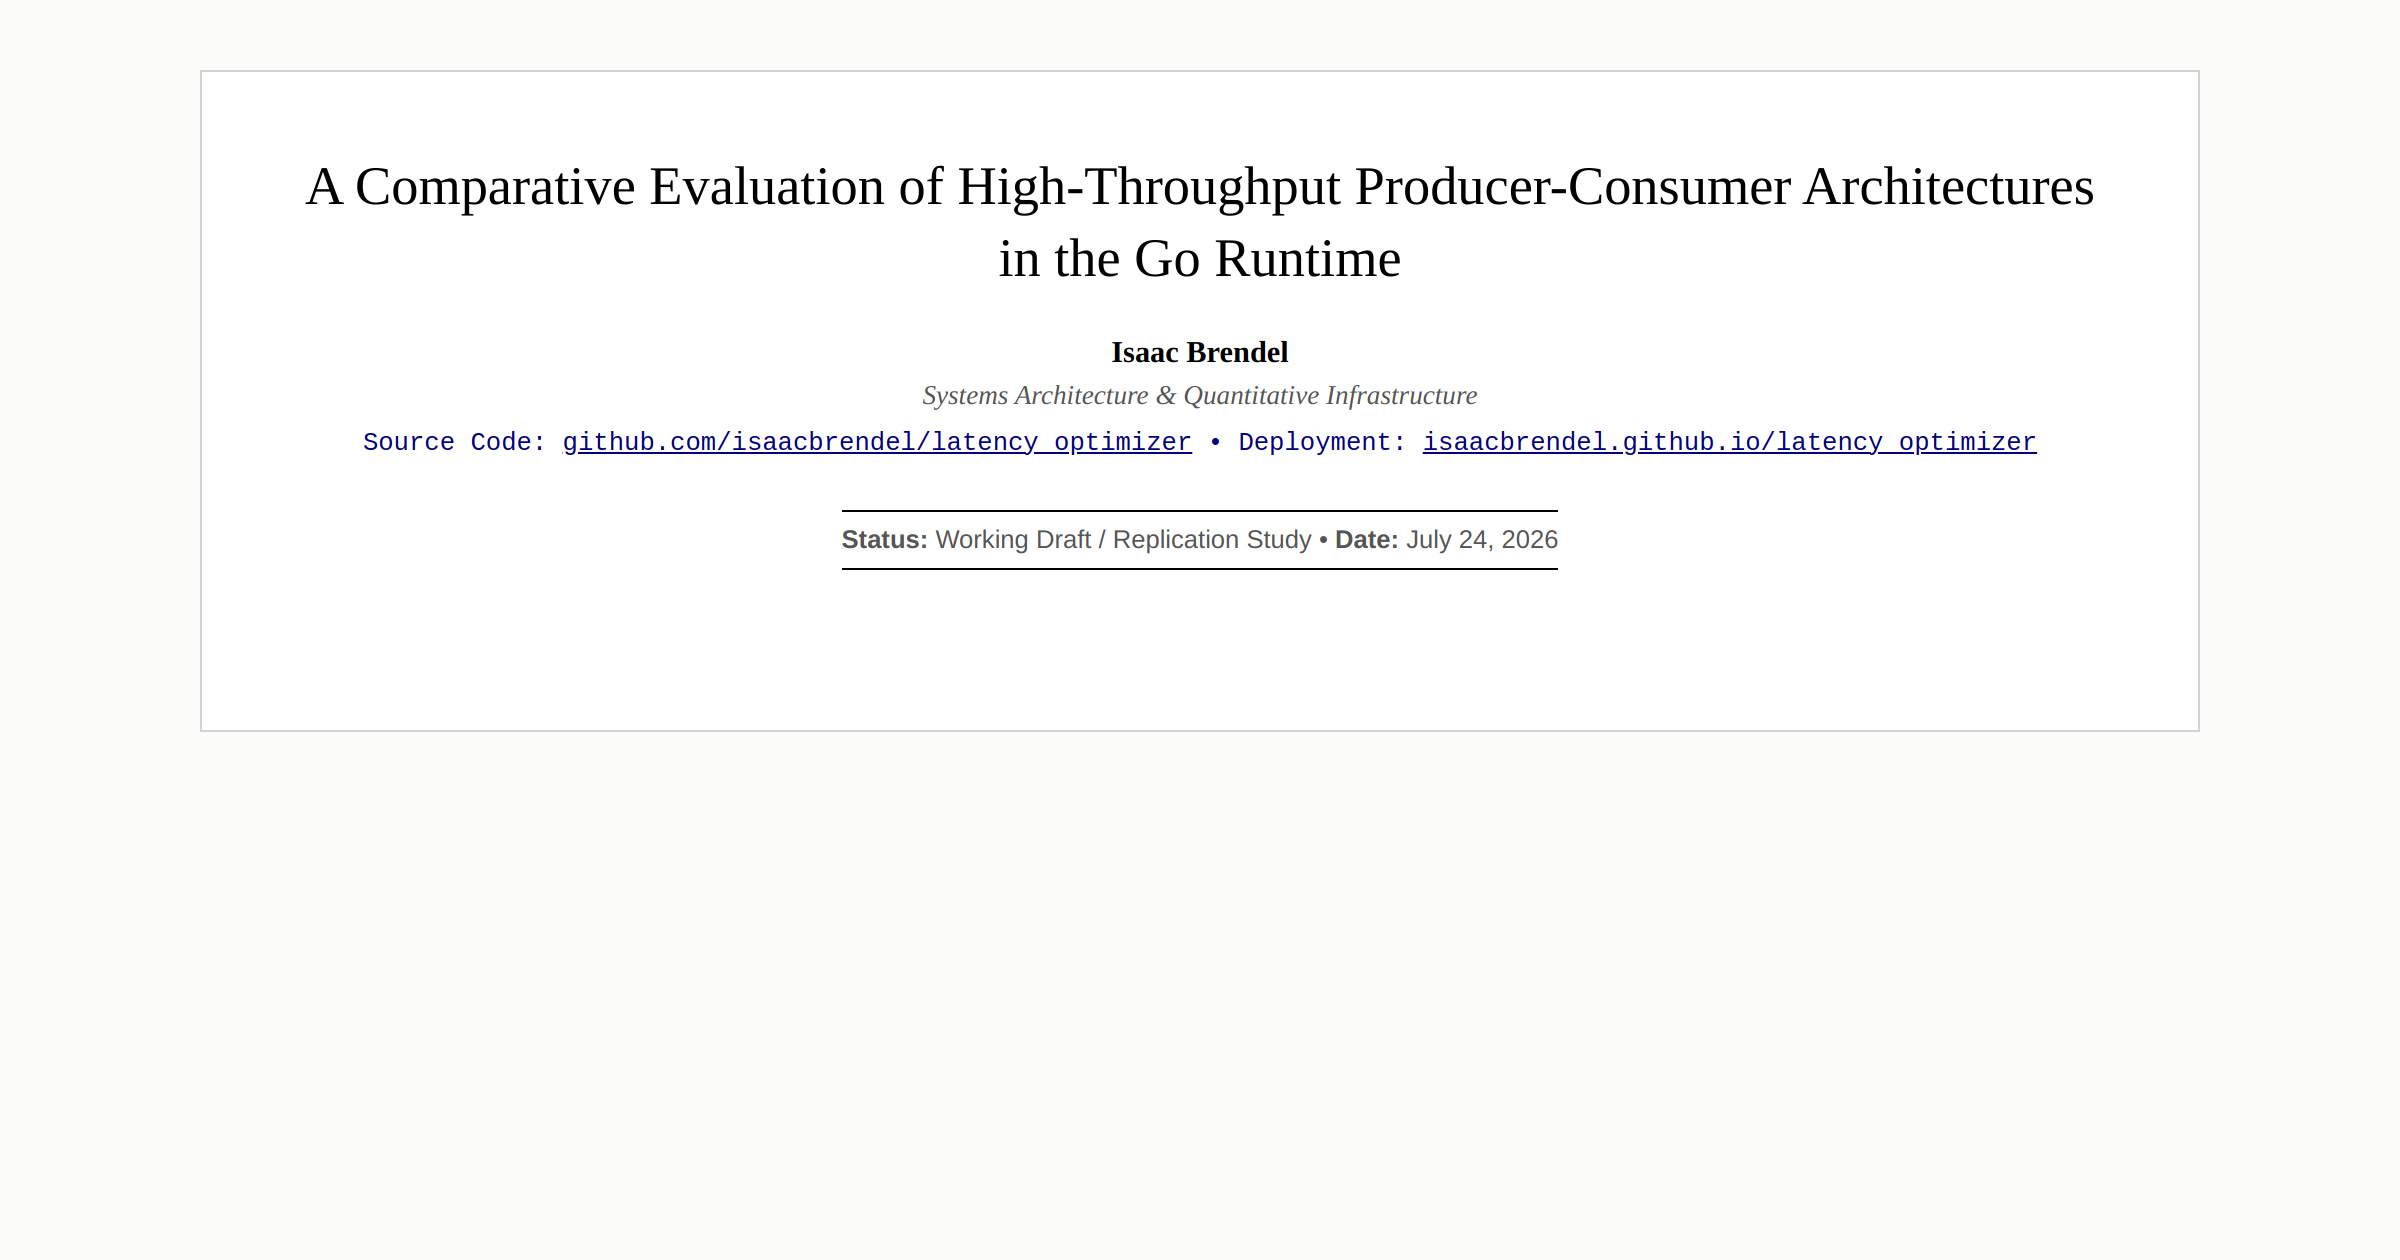
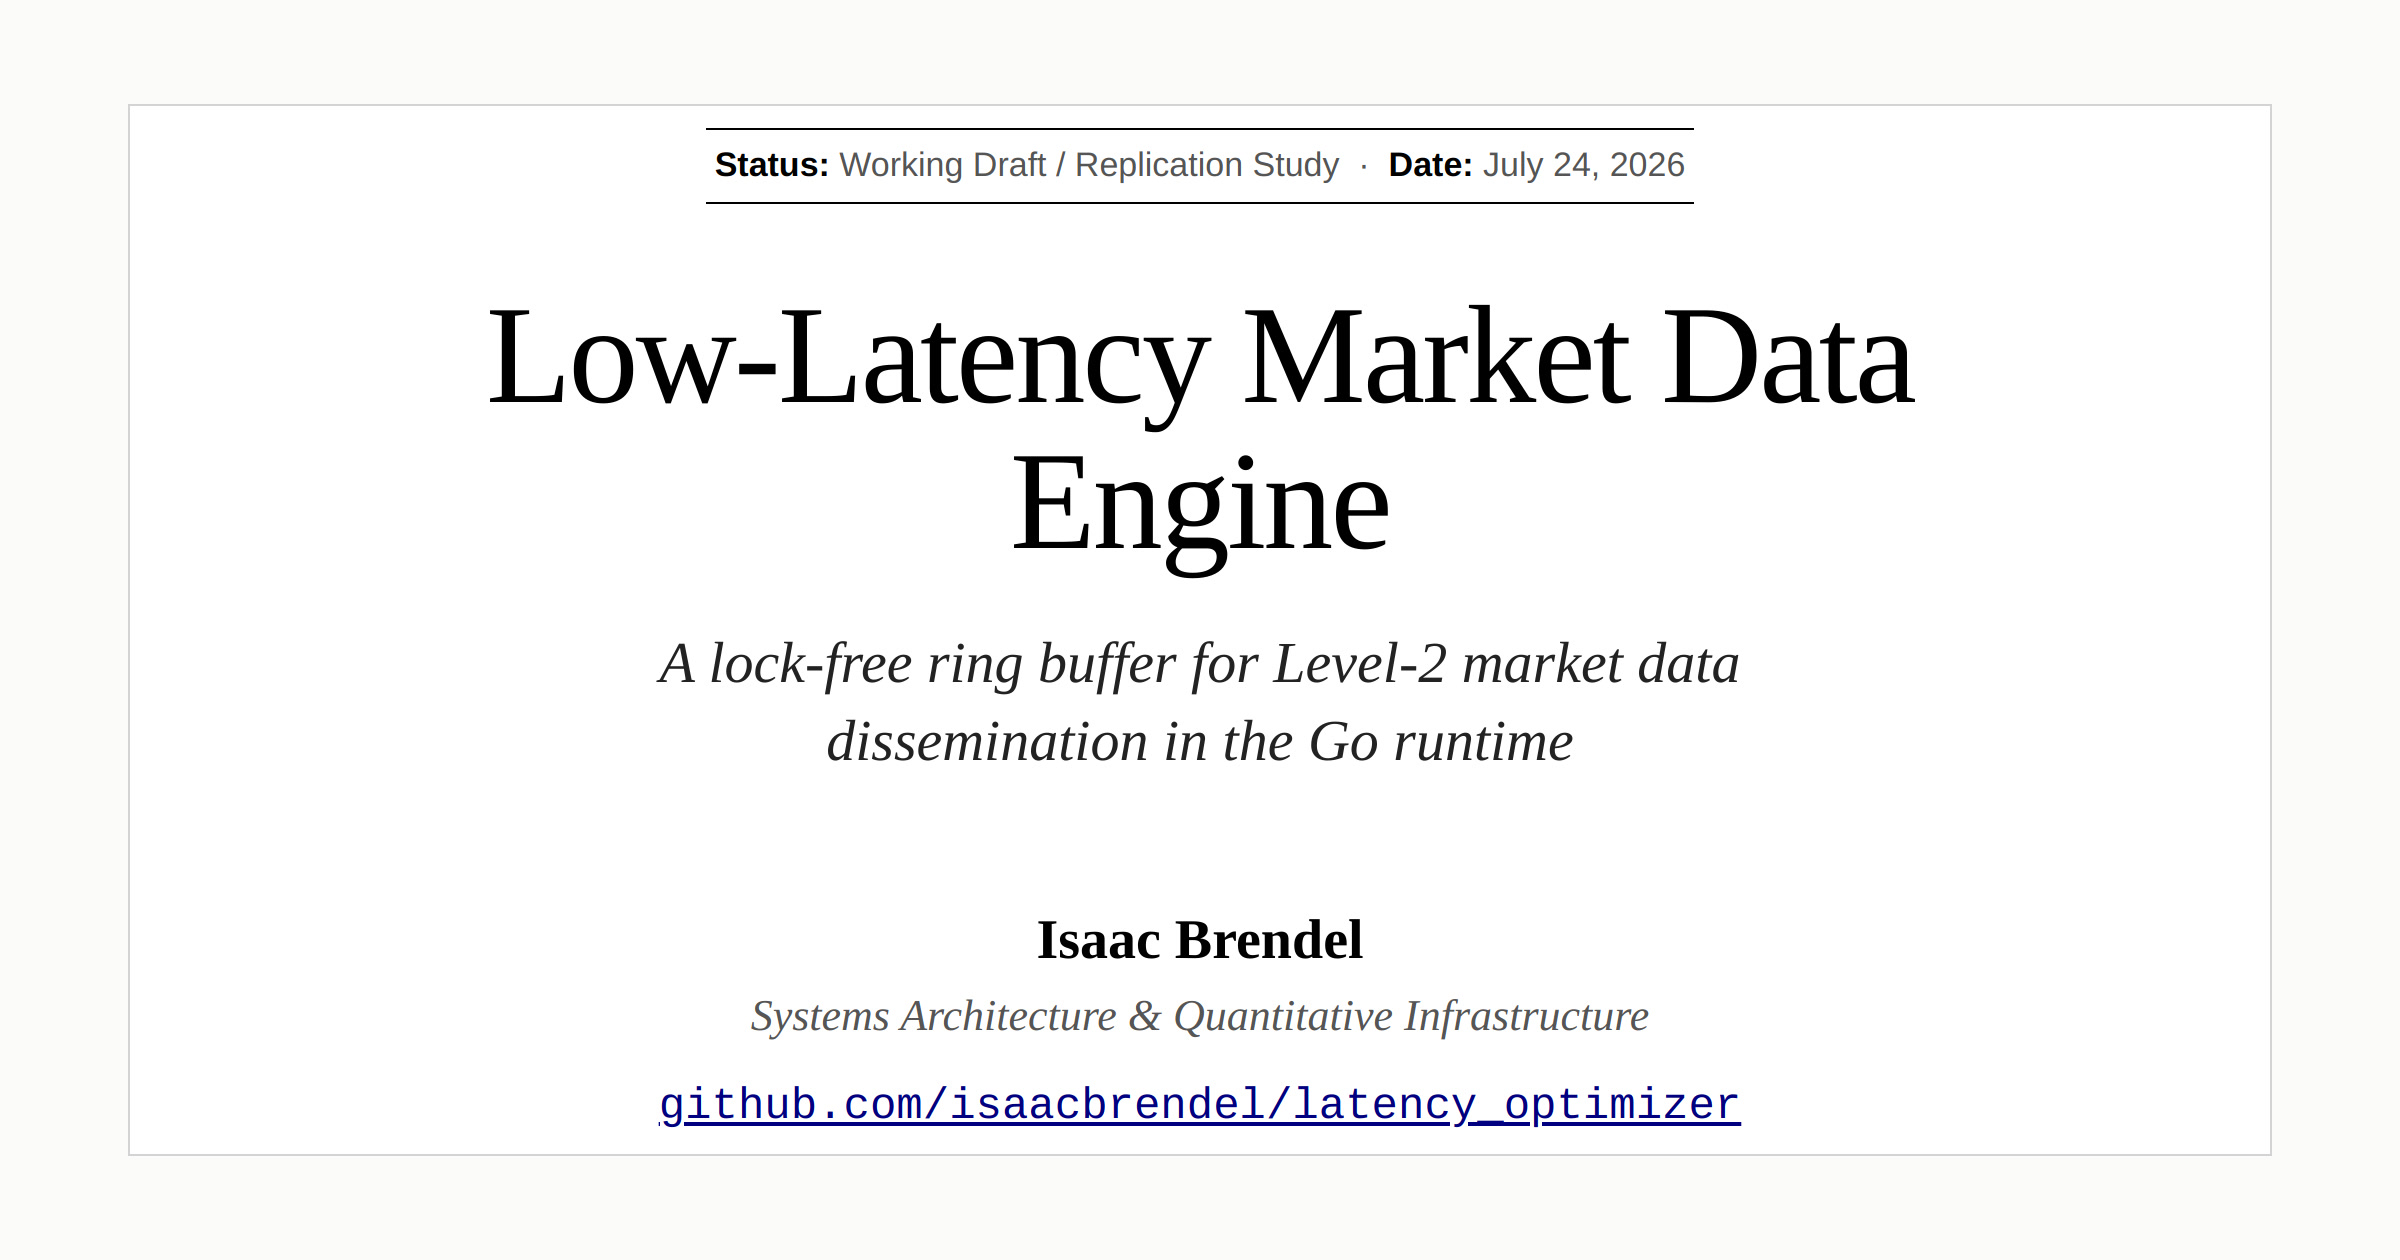
Craft purpose-built Featured title plate from live site materials
Off-white #fbfbf9 page frame, white paper, Times hierarchy, navy links.
Short readable project title, thesis line, author — no metric figures.

diff --git a/docs/assets/og-compose.html b/docs/assets/og-compose.html
@@ -2,107 +2,132 @@
 <html lang="en">
 <head>
   <meta charset="UTF-8" />
-  <title>Latency Engine — Thumbnail</title>
+  <title>Featured — Latency Optimizer</title>
   <style>
-    /* Colors sampled from live site via Playwright */
+    /*
+      LinkedIn Featured card — purpose:
+      Stop the scroll by looking like the real workstation title page,
+      readable at ~300px, no metric figures.
+      Materials sampled from latency-optimizer.vercel.app
+    */
     :root {
       --bg-page: #fbfbf9;
       --bg-paper: #ffffff;
       --border: #d3d3d3;
       --ink: #000000;
-      --mute: #555555;
+      --dim: #555555;
+      --muted: #222222;
       --navy: #000080;
-      --font-serif: "Times New Roman", Times, Georgia, serif;
-      --font-sans: "Helvetica Neue", Helvetica, Arial, sans-serif;
-      --font-mono: "Courier New", Courier, Monaco, monospace;
+      --serif: "Times New Roman", Times, Georgia, serif;
+      --sans: "Helvetica Neue", Helvetica, Arial, sans-serif;
+      --mono: "Courier New", Courier, Monaco, monospace;
     }
-    * { box-sizing: border-box; margin: 0; padding: 0; border-radius: 0 !important; box-shadow: none !important; }
+    * {
+      box-sizing: border-box;
+      margin: 0;
+      padding: 0;
+      border-radius: 0 !important;
+      box-shadow: none !important;
+      text-shadow: none !important;
+    }
     html, body {
       width: 1200px;
       height: 630px;
       overflow: hidden;
       background: var(--bg-page);
       color: var(--ink);
-      font-family: var(--font-serif);
+      font-family: var(--serif);
     }
-    .page {
+    .stage {
       width: 1200px;
       height: 630px;
-      padding: 36px 44px;
       background: var(--bg-page);
+      /* Generous page surround — the site’s off-white is the brand signal */
+      padding: 52px 64px;
       display: flex;
-      align-items: center;
-      justify-content: center;
     }
     .paper {
-      width: 100%;
-      height: 100%;
+      flex: 1;
       background: var(--bg-paper);
       border: 1px solid var(--border);
-      padding: 48px 56px;
       display: flex;
       flex-direction: column;
       align-items: center;
       justify-content: center;
       text-align: center;
+      padding: 40px 72px;
     }
+    .status {
+      font-family: var(--sans);
+      font-size: 17px;
+      color: var(--dim);
+      border-top: 1px solid #000;
+      border-bottom: 1px solid #000;
+      padding: 8px 4px;
+      margin-bottom: 40px;
+    }
+    .status strong { color: #000; }
+
     h1 {
-      font-family: var(--font-serif);
       font-weight: 400;
-      font-size: 44px;
-      line-height: 1.25;
+      font-size: 70px;
+      line-height: 1.05;
+      letter-spacing: -0.02em;
       max-width: 920px;
-      color: #000;
-      margin-bottom: 26px;
+      margin-bottom: 24px;
+    }
+    .thesis {
+      font-style: italic;
+      font-size: 29px;
+      line-height: 1.35;
+      color: var(--muted);
+      max-width: 820px;
+      margin-bottom: 36px;
+    }
+    .rule {
+      width: 48px;
+      height: 1px;
+      background: #000;
+      margin-bottom: 28px;
     }
     .author {
-      font-size: 26px;
+      font-size: 28px;
       font-weight: 700;
-      line-height: 1.3;
-      margin-bottom: 6px;
+      margin-bottom: 8px;
     }
     .affil {
       font-size: 22px;
       font-style: italic;
-      color: var(--mute);
-      margin-bottom: 16px;
+      color: var(--dim);
+      margin-bottom: 20px;
     }
-    .links {
-      font-family: var(--font-mono);
-      font-size: 18px;
-      color: var(--navy);
-      margin-bottom: 26px;
-      line-height: 1.55;
-    }
-    .links a {
+    .link {
+      font-family: var(--mono);
+      font-size: 22px;
       color: var(--navy);
       text-decoration: underline;
     }
-    .status {
-      font-family: var(--font-sans);
-      font-size: 20px;
-      color: var(--mute);
-      border-top: 1px solid #000;
-      border-bottom: 1px solid #000;
-      padding: 10px 4px;
-      display: inline-block;
-    }
-    .status strong { color: #000; font-weight: 700; }
   </style>
 </head>
 <body>
-  <div class="page">
+  <div class="stage">
     <div class="paper">
-      <h1>A Comparative Evaluation of High-Throughput Producer-Consumer Architectures in the Go Runtime</h1>
+      <div class="status">
+        <strong>Status:</strong> Working Draft / Replication Study &nbsp;·&nbsp;
+        <strong>Date:</strong> July 24, 2026
+      </div>
+
+      <h1>Low-Latency Market Data Engine</h1>
+      <p class="thesis">
+        A lock-free ring buffer for Level-2 market data<br />
+        dissemination in the Go runtime
+      </p>
+
+      <div class="rule" aria-hidden="true"></div>
+
       <div class="author">Isaac Brendel</div>
       <div class="affil">Systems Architecture &amp; Quantitative Infrastructure</div>
-      <div class="links">
-        Source Code: <a href="#">github.com/isaacbrendel/latency_optimizer</a><br />
-        Deployment: <a href="#">isaacbrendel.github.io/latency_optimizer</a>
-      </div>
-      <div class="status">
-        <strong>Status:</strong> Working Draft / Replication Study &bull; <strong>Date:</strong> July 24, 2026
-      </div>
+      <a class="link" href="https://github.com/isaacbrendel/latency_optimizer">github.com/isaacbrendel/latency_optimizer</a>
     </div>
   </div>
 </body>
